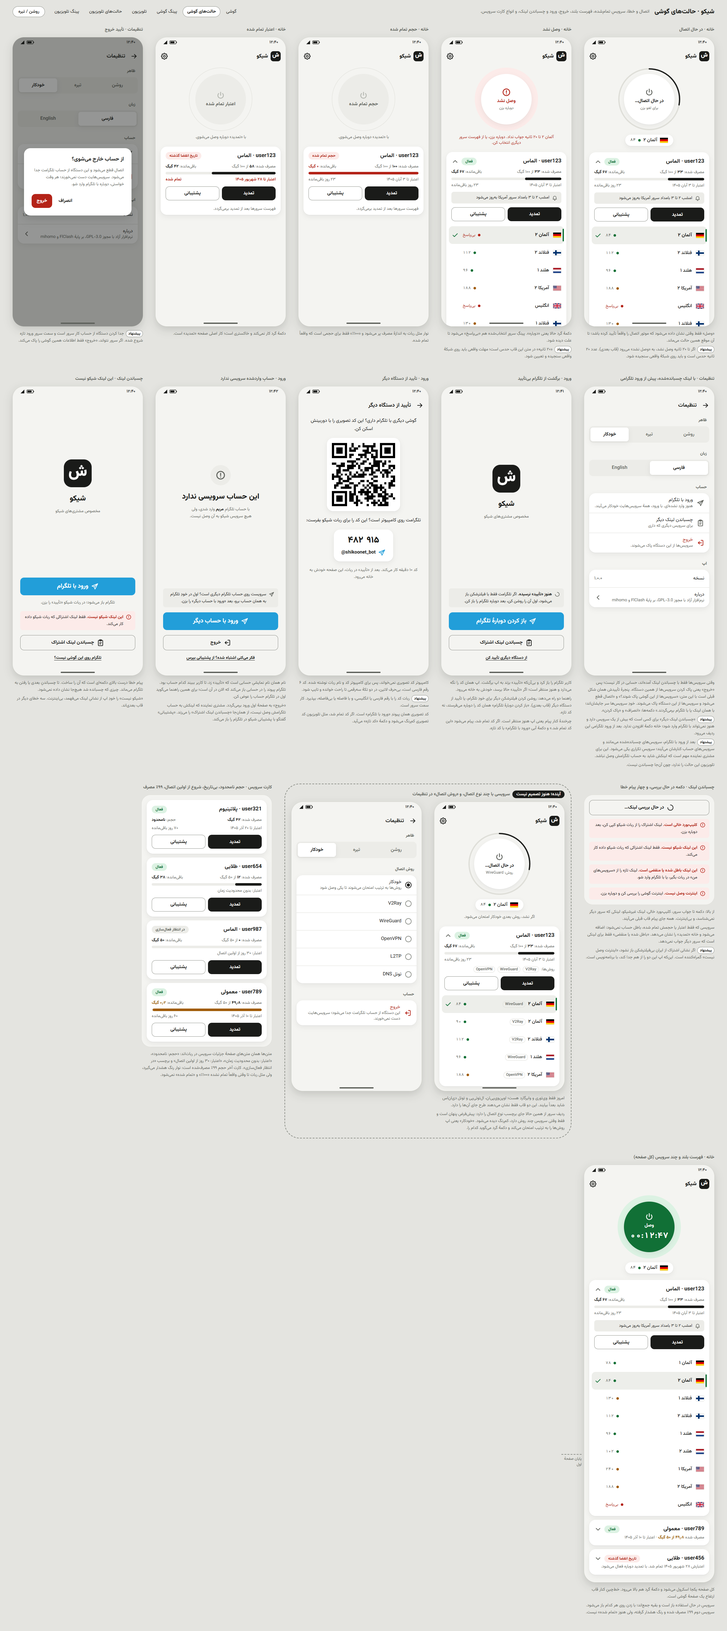
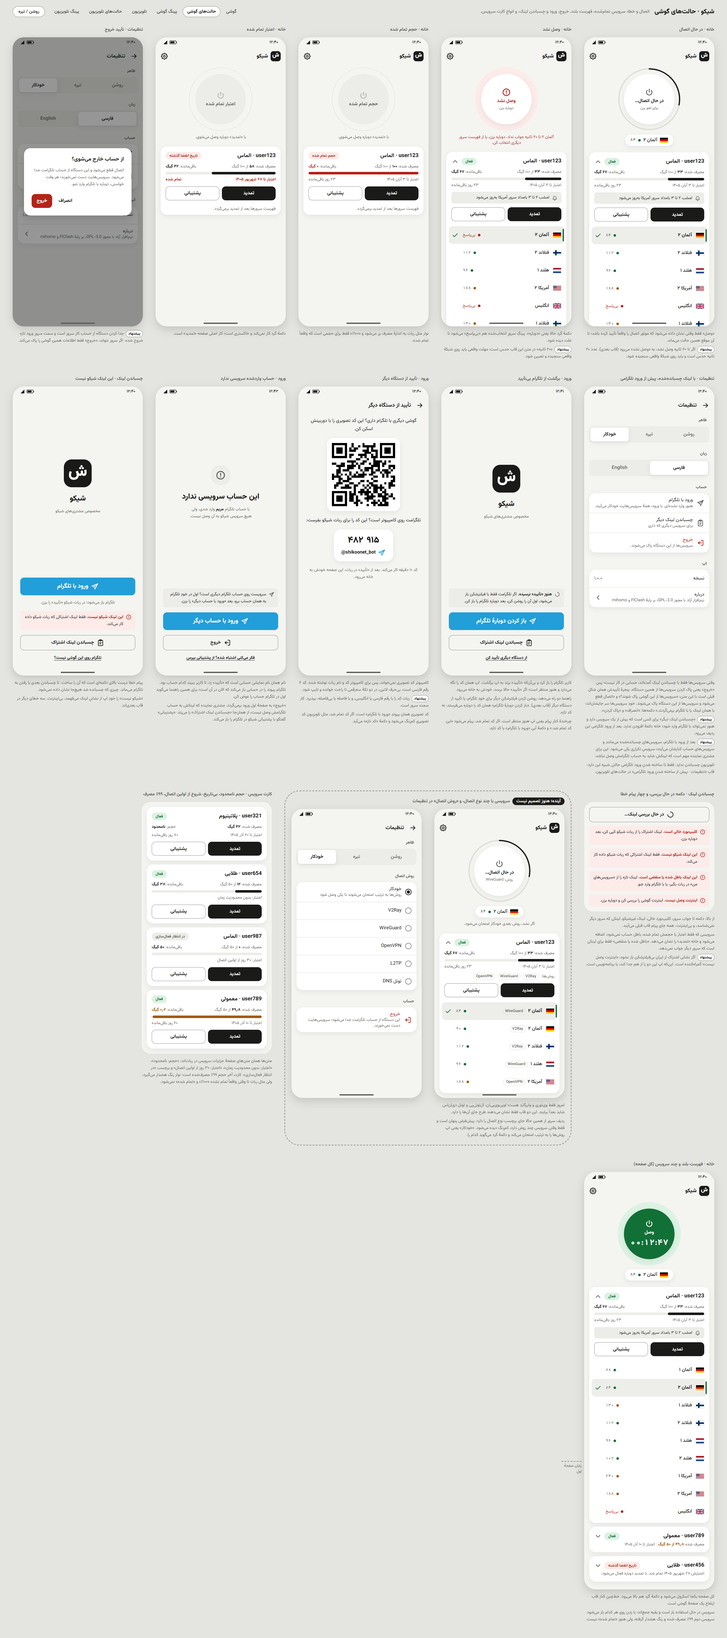
docs(design): draw the TV screens round eight built without frames
Round eight of the built app added TV screens that had no frame. The
ones that fit the design system now have one, so later rounds compare
against a picture instead of a guess.

- about: one text card under the settings header, nothing to focus,
  the app's own version, and "source code" instead of the loanword
- settings before Telegram login exists: the two-column layout with
  only the log-out row, which removes the services from this TV
- the log-out confirmation for that state: the title says where the
  services are removed from, focus starts on cancel, and the red
  button says "remove" as on the phone
- settings in English: the same two columns mirrored, with the
  direction icons flipped
- refused VPN permission: the "could not connect" button with a
  two-line message that says "connection" rather than the Latin name;
  the device with no permission window gets the same frame
- a server the user picked that stops answering while connected:
  "connected" stays, the server pill shows no answer, and a message
  under it says to pick another one

The phone note that said the TV never has a services-without-account
state now points at the new TV settings frame.

diff --git a/design/mockups/tv-states.html b/design/mockups/tv-states.html
@@ -133,6 +133,65 @@
     <p class="note">پیام همان متن اپ است و در دو جمله میشکند. فوکوس روی دکمهٔ گرد میماند؛ دکمهٔ وسط دوباره وصل میکند.</p>
   </figure>
 
+  <!-- خانه: اجازهٔ اتصال داده نشد -->
+  <figure class="shot">
+    <figcaption>خانه · در پنجرهٔ اندروید اجازهٔ اتصال داده نشد</figcaption>
+    <div class="tv" data-device="tv" data-frame="tv-vpn-refused">
+      <header class="tv-top">
+        <div class="brand"><span class="mark">ش</span><span>شیکو</span></div>
+        <button class="btn btn-outline" type="button"><svg class="icon"><use href="#i-gear"/></svg>تنظیمات</button>
+      </header>
+      <div class="tv-home">
+        <div class="tv-col">
+          <div class="tv-col-content">
+            <article class="card svc">
+              <header class="svc-head">
+                <div class="svc-titles">
+                  <div class="svc-line"><h2 class="svc-name"><bdi dir="ltr">user123</bdi> · الماس</h2><span class="chip chip-positive">فعال</span></div>
+                  <p class="svc-sub">بهروز شد، همین الان</p>
+                </div>
+                <button class="btn btn-outline" type="button"><svg class="icon"><use href="#i-refresh"/></svg>بهروزرسانی</button>
+              </header>
+              <div class="usage">
+                <div class="usage-row"><span>مصرف شده: <strong>۳۳</strong> از ۱۰۰ گیگ</span><span>باقیمانده: <strong>۶۷ گیگ</strong></span></div>
+                <div class="bar"><span style="inline-size: 33%"></span></div>
+                <div class="usage-row"><span>اعتبار تا ۳ آبان ۱۴۰۵</span><span>۲۳ روز باقیمانده</span></div>
+              </div>
+              <p class="notice"><svg class="icon"><use href="#i-bell"/></svg><span>امشب ۲ تا ۳ بامداد سرور آمریکا بهروز میشود</span></p>
+              <div class="actions">
+                <button class="btn btn-primary" type="button"><svg class="icon"><use href="#i-qr"/></svg>تمدید</button>
+                <button class="btn btn-outline" type="button"><svg class="icon"><use href="#i-qr"/></svg>پشتیبانی</button>
+              </div>
+              <div class="list-head">
+                <p class="list-caption"><strong>سرورها</strong> · سریعترین بالا</p>
+                <button class="btn btn-outline" type="button"><svg class="icon"><use href="#i-gauge"/></svg>پینگ همه</button>
+              </div>
+              <ul class="servers">
+                  <li class="server"><svg class="flag"><use href="#f-nl"/></svg><span class="name">هلند ۱</span><span class="ping">۷۱</span><svg class="icon tick"><use href="#i-check"/></svg></li>
+                  <li class="server is-selected"><svg class="flag"><use href="#f-de"/></svg><span class="name">آلمان ۲</span><span class="ping">۸۸</span><svg class="icon tick"><use href="#i-check"/></svg></li>
+                  <li class="server"><svg class="flag"><use href="#f-fi"/></svg><span class="name">فنلاند ۲</span><span class="ping">۹۹</span><svg class="icon tick"><use href="#i-check"/></svg></li>
+              </ul>
+            </article>
+          </div>
+        </div>
+        <section class="tv-power is-error">
+          <div class="power-ring">
+            <button class="power is-focused" type="button">
+              <svg class="icon"><use href="#i-alert"/></svg>
+              <span class="power-label">وصل نشد</span>
+              <span class="power-sub">دکمهٔ وسط: دوباره</span>
+            </button>
+          </div>
+          <span class="now"><svg class="flag"><use href="#f-de"/></svg>آلمان ۲<span class="ping">۸۸</span></span>
+          <p class="power-msg danger">اجازهٔ اتصال داده نشد.<br>دوباره وصل شو و در پنجرهٔ اندروید اجازه بده.</p>
+        </section>
+      </div>
+    </div>
+    <p class="note">در پنجرهٔ اجازهٔ اندروید «تأیید» زده نشد، یا پنجره بیجواب بسته شد. شکلِ «وصل نشد» است و فقط پیام فرق دارد. دکمهٔ وسط دوباره وصل میشود و اندروید دوباره میپرسد.</p>
+    <p class="note">دستگاهی که اصلاً این پنجره را ندارد (بعضی باکسها) همین قاب را میگیرد، با این پیام: «این دستگاه پنجرهٔ اجازهٔ اتصال را ندارد.» و «از «پشتیبانی» بپرس.»</p>
+    <p class="note">متن اپ «اجازهٔ اتصال» میگوید، نه نامِ لاتینِ آن؛ مثل باقیِ نوشتههای اپ.</p>
+  </figure>
+
   <!-- فهرست بلند و چند سرویس -->
   <figure class="shot">
     <figcaption>خانه · فهرست بلند و چند سرویس · ستون اسکرولشده</figcaption>
@@ -418,6 +477,193 @@
     <p class="note">دو ستون، تا همهچیز بیاسکرول در یک صفحه جا شود: ظاهر و زبان در ردیف بالا، حساب و اپ زیرشان. ریموت چپ و راست بین دو ستون میرود و بالا و پایین در هر ستون.</p>
     <p class="note">«وارد شده با» فقط نوشته است و ریموت رویش نمیایستد. پایین از «خودکار» مستقیم به «خروج» میرود. پنجرهٔ تأیید خروج همان متن گوشی است.</p>
     <p class="note"><b>پیشنهاد</b>«خروج» به سمت سرورِ ورود بستگی دارد که تازه شروع شده.</p>
+  </figure>
+
+  <!-- تنظیمات تلویزیون، پیش از ورود تلگرامی -->
+  <figure class="shot">
+    <figcaption>تنظیمات · پیش از ساخته شدنِ ورود تلگرامی</figcaption>
+    <div class="tv" data-device="tv" data-frame="tv-settings-pre-login">
+      <header class="tv-top">
+        <h2 class="tv-title">تنظیمات</h2>
+        <span class="tv-hint">برای برگشت، دکمهٔ برگشتِ ریموت را بزن</span>
+      </header>
+      <div class="tv-settings">
+        <div class="settings">
+          <section>
+            <h3 class="group-title">ظاهر</h3>
+            <div class="segmented" role="radiogroup">
+              <button type="button" role="radio" aria-checked="false">روشن</button>
+              <button type="button" role="radio" aria-checked="false">تیره</button>
+              <button class="is-focused" type="button" role="radio" aria-checked="true">خودکار</button>
+            </div>
+          </section>
+          <section>
+            <h3 class="group-title">زبان</h3>
+            <div class="segmented" role="radiogroup">
+              <button type="button" role="radio" aria-checked="true">فارسی</button>
+              <button type="button" role="radio" aria-checked="false" lang="en">English</button>
+            </div>
+          </section>
+          <section>
+            <h3 class="group-title">حساب</h3>
+            <div class="card">
+              <button class="row danger" type="button">
+                <svg class="icon"><use href="#i-logout"/></svg>
+                <span class="t"><span>خروج</span><small>سرویسها از این تلویزیون پاک میشوند.</small></span>
+              </button>
+            </div>
+          </section>
+          <section>
+            <h3 class="group-title">اپ</h3>
+            <div class="card">
+              <div class="row"><span class="t"><span>نسخه</span></span><span class="value">۱.۰.۰</span></div>
+              <button class="row" type="button">
+                <span class="t"><span>درباره</span><small>نرمافزار آزاد با مجوز <bdi>GPL-3.0</bdi>، بر پایهٔ <bdi>FlClash</bdi> و <bdi>mihomo</bdi></small></span>
+                <svg class="icon"><use href="#i-chevron-fwd"/></svg>
+              </button>
+            </div>
+          </section>
+        </div>
+      </div>
+    </div>
+    <p class="note">تا ورود تلگرامی ساخته نشده، سرویسها بیحساب روی تلویزیوناند؛ پس «خروج» یعنی پاک کردن آنها از همین تلویزیون، مثل «تنظیمات · با لینک چسباندهشده» روی گوشی. ردیفِ «وارد شده با» نیست.</p>
+    <p class="note">همان دو ستون و همان ترتیب ریموت قاب قبلی: پایین از «خودکار» به «خروج»، و چپ و راست بین دو ستون.</p>
+    <p class="note">بعد از ورود تلگرامی این قاب کنار میرود: کسی که بیرون آمده به صفحهٔ ورود میرود و تنظیمات را بیحساب نمیبیند.</p>
+  </figure>
+
+  <!-- پنجرهٔ تأیید خروج، پیش از ورود تلگرامی -->
+  <figure class="shot">
+    <figcaption>تنظیمات · تأیید خروج، پیش از ورود تلگرامی · ریموت روی «انصراف»</figcaption>
+    <div class="tv" data-device="tv" data-frame="tv-logout-confirm">
+      <header class="tv-top">
+        <h2 class="tv-title">تنظیمات</h2>
+        <span class="tv-hint">برای برگشت، دکمهٔ برگشتِ ریموت را بزن</span>
+      </header>
+      <div class="tv-settings">
+        <div class="settings">
+          <section>
+            <h3 class="group-title">ظاهر</h3>
+            <div class="segmented" role="radiogroup">
+              <button type="button" role="radio" aria-checked="false">روشن</button>
+              <button type="button" role="radio" aria-checked="false">تیره</button>
+              <button type="button" role="radio" aria-checked="true">خودکار</button>
+            </div>
+          </section>
+          <section>
+            <h3 class="group-title">زبان</h3>
+            <div class="segmented" role="radiogroup">
+              <button type="button" role="radio" aria-checked="true">فارسی</button>
+              <button type="button" role="radio" aria-checked="false" lang="en">English</button>
+            </div>
+          </section>
+          <section>
+            <h3 class="group-title">حساب</h3>
+            <div class="card">
+              <button class="row danger" type="button">
+                <svg class="icon"><use href="#i-logout"/></svg>
+                <span class="t"><span>خروج</span><small>سرویسها از این تلویزیون پاک میشوند.</small></span>
+              </button>
+            </div>
+          </section>
+          <section>
+            <h3 class="group-title">اپ</h3>
+            <div class="card">
+              <div class="row"><span class="t"><span>نسخه</span></span><span class="value">۱.۰.۰</span></div>
+              <button class="row" type="button">
+                <span class="t"><span>درباره</span><small>نرمافزار آزاد با مجوز <bdi>GPL-3.0</bdi>، بر پایهٔ <bdi>FlClash</bdi> و <bdi>mihomo</bdi></small></span>
+                <svg class="icon"><use href="#i-chevron-fwd"/></svg>
+              </button>
+            </div>
+          </section>
+        </div>
+      </div>
+      <div class="scrim">
+        <div class="dialog" role="alertdialog" aria-labelledby="tv-logout-title">
+          <h2 id="tv-logout-title">سرویسها از این تلویزیون پاک شوند؟</h2>
+          <p>اتصال قطع میشود و سرویسها از این تلویزیون پاک میشوند. اشتراکت در ربات شیکو سر جایش میماند.</p>
+          <div class="dialog-actions">
+            <button class="btn btn-outline is-focused" type="button">انصراف</button>
+            <button class="btn btn-danger" type="button">پاک کردن</button>
+          </div>
+        </div>
+      </div>
+    </div>
+    <p class="note">ریموت اول روی «انصراف» است تا یک دکمهٔ وسطِ اشتباهی چیزی پاک نکند. چپ به «پاک کردن»، و دکمهٔ برگشت یعنی انصراف.</p>
+    <p class="note">دکمهٔ قرمز کارش را میگوید: «پاک کردن»، مثل همین پنجره روی گوشی. «انصراف» روی تلویزیون دورخطدار است، نه متنیِ گوشی، تا حلقهٔ فوکوس شکل داشته باشد.</p>
+    <p class="note">بعد از ورود تلگرامی همان پنجرهٔ «از حساب خارج میشوی؟» گوشی میآید، با «این تلویزیون» بهجای «این دستگاه».</p>
+  </figure>
+
+  <!-- تنظیمات تلویزیون به انگلیسی -->
+  <figure class="shot">
+    <figcaption>تنظیمات · زبان انگلیسی، چپبهراست · ریموت روی همان گزینه</figcaption>
+    <div class="tv" data-device="tv" data-frame="tv-settings-english" dir="ltr" lang="en">
+      <header class="tv-top">
+        <h2 class="tv-title">Settings</h2>
+        <span class="tv-hint">Press Back on the remote to go back</span>
+      </header>
+      <div class="tv-settings">
+        <div class="settings">
+          <section>
+            <h3 class="group-title">Appearance</h3>
+            <div class="segmented" role="radiogroup">
+              <button type="button" role="radio" aria-checked="false">Light</button>
+              <button type="button" role="radio" aria-checked="false">Dark</button>
+              <button type="button" role="radio" aria-checked="true">Auto</button>
+            </div>
+          </section>
+          <section>
+            <h3 class="group-title">Language</h3>
+            <div class="segmented" role="radiogroup">
+              <button type="button" role="radio" aria-checked="false" lang="fa">فارسی</button>
+              <button class="is-focused" type="button" role="radio" aria-checked="true">English</button>
+            </div>
+          </section>
+          <section>
+            <h3 class="group-title">Account</h3>
+            <div class="card">
+              <button class="row danger" type="button">
+                <svg class="icon flip-ltr"><use href="#i-logout"/></svg>
+                <span class="t"><span>Log out</span><small>Removes the services from this TV.</small></span>
+              </button>
+            </div>
+          </section>
+          <section>
+            <h3 class="group-title">App</h3>
+            <div class="card">
+              <div class="row"><span class="t"><span>Version</span></span><span class="value">1.0.0</span></div>
+              <button class="row" type="button">
+                <span class="t"><span>About</span><small>Free software under GPL-3.0, built on FlClash and mihomo</small></span>
+                <svg class="icon flip-ltr"><use href="#i-chevron-fwd"/></svg>
+              </button>
+            </div>
+          </section>
+        </div>
+      </div>
+    </div>
+    <p class="note">همهچیز آینه میشود: عنوان چپ، ستونِ ظاهر چپ، و فلش «درباره» رو به راست. «فارسی» با خط خودش میماند. رقمها لاتیناند.</p>
+    <p class="note">ریموت بعد از عوض شدن زبان روی همان گزینه میماند، تا کسی که اشتباهی زد با یک دکمه برگردد.</p>
+  </figure>
+
+  <!-- درباره -->
+  <figure class="shot">
+    <figcaption>درباره · فقط متن، برگشت با دکمهٔ برگشت</figcaption>
+    <div class="tv" data-device="tv" data-frame="tv-about">
+      <header class="tv-top">
+        <h2 class="tv-title">درباره</h2>
+        <span class="tv-hint">برای برگشت، دکمهٔ برگشتِ ریموت را بزن</span>
+      </header>
+      <div class="tv-settings">
+        <article class="card about">
+          <h3>شیکو ۱.۰.۰</h3>
+          <p>شیکو نرمافزار آزاد است و با مجوز <bdi>GPL-3.0</bdi> منتشر میشود.</p>
+          <p>شیکو بر پایهٔ دو نرمافزار آزاد است: <bdi>FlClash</bdi> از <bdi>chen08209</bdi> و هستهٔ <bdi>mihomo</bdi> از <bdi>MetaCubeX</bdi>. سپاس از سازندگانشان.</p>
+          <p>کد منبعِ همین نسخه را میتوانی از «پشتیبانی» بگیری.</p>
+          <p class="muted">متن مجوز: <bdi dir="ltr">gnu.org/licenses/gpl-3.0</bdi></p>
+        </article>
+      </div>
+    </div>
+    <p class="note">جزء قابل انتخابی ندارد، پس حلقهٔ فوکوس هم نیست؛ دکمهٔ برگشت به تنظیمات برمیگردد و ریموت روی «درباره» میماند. اگر روزی متنِ کامل مجوز اینجا آمد، بالا و پایینِ ریموت متن را اسکرول کند.</p>
+    <p class="note">نسخه همان نسخهٔ خودِ اپ است که در تنظیمات هم هست، نه نسخهٔ پایه.</p>
   </figure>
 
   <!-- ورود: کد تمام شده -->

diff --git a/design/mockups/tv-ping.html b/design/mockups/tv-ping.html
@@ -604,6 +604,71 @@
     <p class="note">اگر وصل نبود، قرص تا پایان سنجش «در حال یافتن بهترین سرور…» است و بعد پیامِ «جایش انتخاب شد» میآید (قاب سربرگهای گوشی).</p>
   </figure>
 
+  <figure class="shot">
+    <figcaption>وصل · سروری که خودِ کاربر برگزیده جواب نمیدهد · ریموت روی همان سرور</figcaption>
+    <div class="tv" data-device="tv" data-frame="tv-dead-server">
+      <header class="tv-top">
+        <div class="brand"><span class="mark">ش</span><span>شیکو</span></div>
+        <button class="btn btn-outline" type="button"><svg class="icon"><use href="#i-gear"/></svg>تنظیمات</button>
+      </header>
+      <div class="tv-home">
+        <div class="tv-col" data-scroll-to=".list-head">
+          <div class="tv-col-content">
+            <article class="card svc">
+              <header class="svc-head">
+                <div class="svc-titles">
+                  <div class="svc-line"><h2 class="svc-name"><bdi dir="ltr">user123</bdi> · الماس</h2><span class="chip chip-positive">فعال</span></div>
+                  <p class="svc-sub">بهروز شد، ۲ دقیقه پیش</p>
+                </div>
+                <button class="btn btn-outline" type="button"><svg class="icon"><use href="#i-refresh"/></svg>بهروزرسانی</button>
+              </header>
+              <div class="usage">
+                <div class="usage-row"><span>مصرف شده: <strong>۳۳</strong> از ۱۰۰ گیگ</span><span>باقیمانده: <strong>۶۷ گیگ</strong></span></div>
+                <div class="bar"><span style="inline-size: 33%"></span></div>
+                <div class="usage-row"><span>اعتبار تا ۳ آبان ۱۴۰۵</span><span>۲۳ روز باقیمانده</span></div>
+              </div>
+              <p class="notice"><svg class="icon"><use href="#i-bell"/></svg><span>امشب ۲ تا ۳ بامداد سرور آمریکا بهروز میشود</span></p>
+              <div class="actions">
+                <button class="btn btn-primary" type="button"><svg class="icon"><use href="#i-qr"/></svg>تمدید</button>
+                <button class="btn btn-outline" type="button"><svg class="icon"><use href="#i-qr"/></svg>پشتیبانی</button>
+              </div>
+              <div class="list-head">
+                <p class="list-caption"><strong>سرورها</strong> · سریعترین بالا</p>
+                <button class="btn btn-outline" type="button"><svg class="icon"><use href="#i-gauge"/></svg>پینگ همه</button>
+              </div>
+              <ul class="servers">
+                  <li class="server"><svg class="flag"><use href="#f-nl"/></svg><span class="name">هلند ۱</span><span class="ping">۷۱</span><svg class="icon tick"><use href="#i-check"/></svg></li>
+                  <li class="server"><svg class="flag"><use href="#f-de"/></svg><span class="name">آلمان ۲</span><span class="ping">۸۸</span><svg class="icon tick"><use href="#i-check"/></svg></li>
+                  <li class="server"><svg class="flag"><use href="#f-fi"/></svg><span class="name">فنلاند ۲</span><span class="ping">۹۹</span><svg class="icon tick"><use href="#i-check"/></svg></li>
+                  <li class="server"><svg class="flag"><use href="#f-nl"/></svg><span class="name">هلند ۲</span><span class="ping">۱۰۵</span><svg class="icon tick"><use href="#i-check"/></svg></li>
+                  <li class="server"><svg class="flag"><use href="#f-fi"/></svg><span class="name">فنلاند ۱</span><span class="ping">۱۲۰</span><svg class="icon tick"><use href="#i-check"/></svg></li>
+                  <li class="server"><svg class="flag"><use href="#f-de"/></svg><span class="name">آلمان ۱</span><span class="ping ok">۱۴۲</span><svg class="icon tick"><use href="#i-check"/></svg></li>
+                  <li class="server"><svg class="flag"><use href="#f-us"/></svg><span class="name">آمریکا ۲</span><span class="ping ok">۱۹۰</span><svg class="icon tick"><use href="#i-check"/></svg></li>
+                  <li class="server is-selected is-focused"><svg class="flag"><use href="#f-us"/></svg><span class="name">آمریکا ۱</span><span class="ping bad">بیپاسخ</span><svg class="icon tick"><use href="#i-check"/></svg></li>
+                  <li class="server"><svg class="flag"><use href="#f-gb"/></svg><span class="name">انگلیس</span><span class="ping bad">بیپاسخ</span><svg class="icon tick"><use href="#i-check"/></svg></li>
+              </ul>
+            </article>
+          </div>
+          <span class="scroll-thumb"></span>
+        </div>
+        <section class="tv-power is-on">
+          <div class="power-ring">
+            <button class="power" type="button">
+              <svg class="icon"><use href="#i-power"/></svg>
+              <span class="power-label">وصل</span>
+              <span class="timer">۰۰:۱۲:۴۷</span>
+            </button>
+          </div>
+          <span class="now"><svg class="flag"><use href="#f-us"/></svg>آمریکا ۱<span class="ping bad">بیپاسخ</span></span>
+          <p class="power-msg danger">«آمریکا ۱» جواب نمیدهد.<br>سرور دیگری را از فهرست انتخاب کن.</p>
+        </section>
+      </div>
+    </div>
+    <p class="note">سروری که خودِ کاربر برگزیده عوض نمیشود، حتی وقتی بیپاسخ است. پس «وصل» میماند، چون تونل واقعاً بالاست، و پیامِ زیر قرص میگوید چه کند. پیام تا وقتی میماند که همین سرور در دورِ تازه جواب بدهد، یا سرور دیگری انتخاب شود.</p>
+    <p class="note">پیام مالِ حالِ اتصال است، نه خبر؛ پس زیر قرص است، مثل «وصل نشد»، نه بالای کارت. ریموت روی همان ردیف میماند؛ بالا و پایین به سرورهای دیگر میرود.</p>
+    <p class="note"><b>پیشنهاد</b>در حالت قطع همان پیام زیر قرص است و دکمهٔ گرد «اتصال». روی گوشی پیام همین است، زیر قرصِ سرور.</p>
+  </figure>
+
 </main>
 </body>
 </html>

diff --git a/design/mockups/phone-states.html b/design/mockups/phone-states.html
@@ -338,7 +338,7 @@
     <p class="note">وقتی سرویسها فقط با چسباندن لینک آمدهاند، حسابی در کار نیست؛ پس «خروج» یعنی پاک کردن سرویسها از همین دستگاه. پنجرهٔ تأییدش همان شکل قبلی است با این متن: «سرویسها از این گوشی پاک شوند؟» و «اتصال قطع میشود و سرویسها از این دستگاه پاک میشوند. خودِ سرویسها سر جایشاناند؛ با همان لینک یا با تلگرام برمیگردند.» دکمهها: «انصراف» و «پاک کردن».</p>
     <p class="note"><b>پیشنهاد</b>«چسباندن لینک دیگر» برای کسی است که بیش از یک سرویس دارد و هنوز نمیتواند با تلگرام وارد شود؛ خانه دکمهٔ افزودن ندارد. بعد از ورود تلگرامی این ردیف میرود.</p>
     <p class="note"><b>پیشنهاد</b>بعد از ورود با تلگرام، سرویسهای چسباندهشده میمانند و سرویسهای حساب کنارشان میآیند؛ سرویسِ تکراری یکی میشود. این برای مشتری نماینده مهم است که لینکش شاید به حساب تلگرامش وصل نباشد.</p>
-    <p class="note">تلویزیون این حالت را ندارد، چون آنجا چسباندن نیست.</p>
+    <p class="note">تلویزیون چسباندن ندارد. فقط تا ساخته شدنِ ورود تلگرامی حالتی شبیه این دارد: قاب «تنظیمات · پیش از ساخته شدنِ ورود تلگرامی» در حالتهای تلویزیون.</p>
   </figure>
 
   <!-- برگشت از تلگرام بیتأیید -->

diff --git a/design/mockups/mockup.css b/design/mockups/mockup.css
@@ -414,10 +414,14 @@ ul { list-style: none; }
 .tv-result strong { color: var(--color-text); }
 .tv-result p, .login-brand .sub { text-wrap: balance; }
 
-/* تنظیمات تلویزیون، و متن پنجرهها درشتتر برای سه متر */
+/* تنظیمات و «درباره»ی تلویزیون، و متن پنجرهها درشتتر برای سه متر */
 .tv-settings { flex: 1; min-block-size: 0; display: flex; justify-content: center; margin-top: var(--space-3); }
 .tv-settings .settings { flex: 1; display: grid; grid-template-columns: repeat(2, minmax(0, 1fr)); align-content: start; padding: 0; gap: var(--space-6) var(--space-10); }
 .tv .dialog p { font-size: var(--text-body); }
+.about { inline-size: var(--size-pane); align-self: start; display: flex; flex-direction: column; gap: var(--space-3); padding: var(--space-4) var(--space-6); line-height: var(--leading-body); }
+.about h3 { font-size: var(--text-title); font-weight: var(--font-weight-bold); line-height: var(--leading-tight); }
+.about .muted { color: var(--color-text-muted); }
+[dir="ltr"] .flip-ltr { scale: -1 1; }
 
 /* صفحههای نمونهٔ اجزا (نه صفحهٔ اپ؛ حاشیهٔ امن ندارند) */
 .tv.spec-frame { padding-inline: var(--space-6); }
